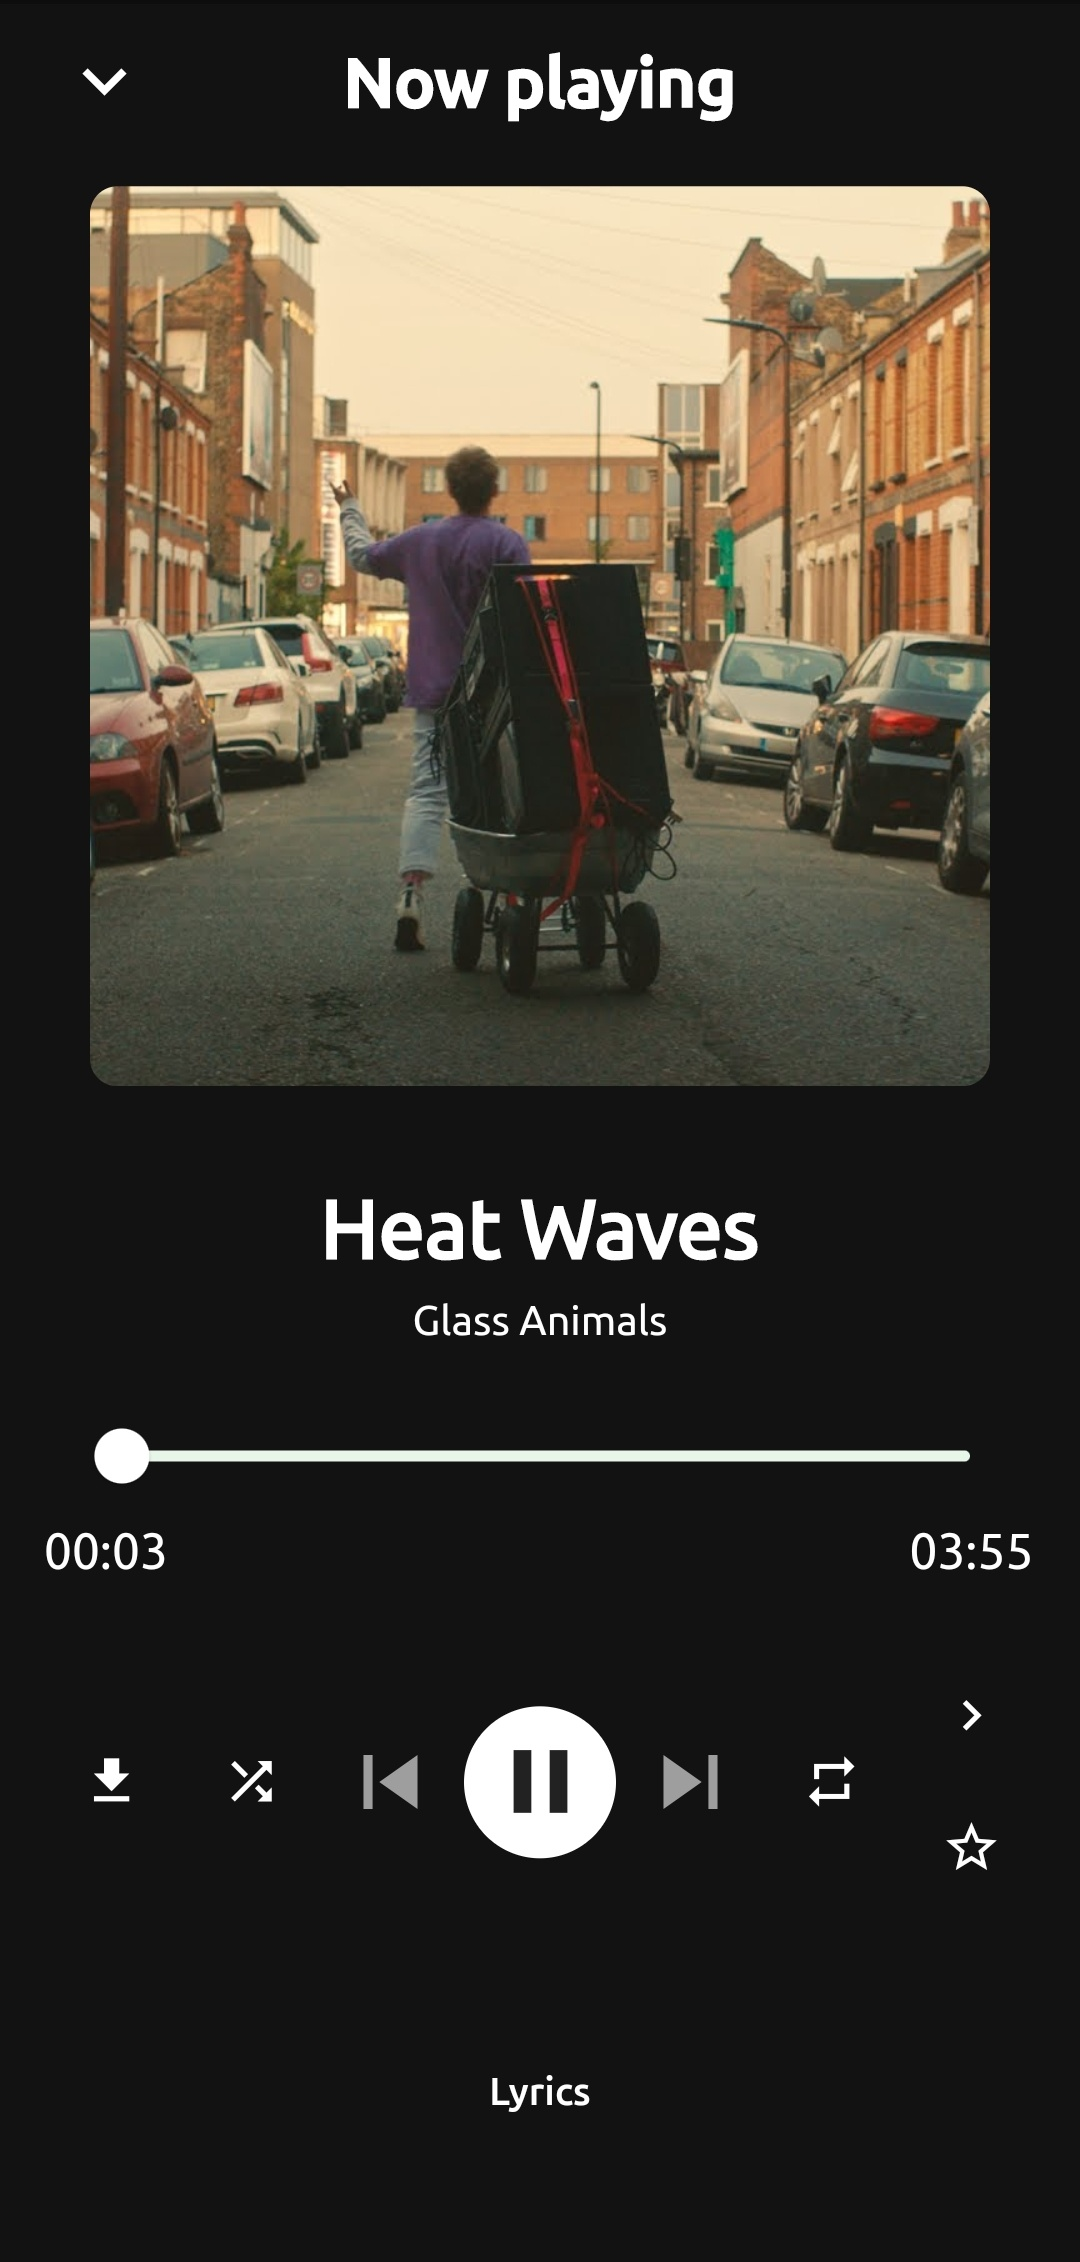
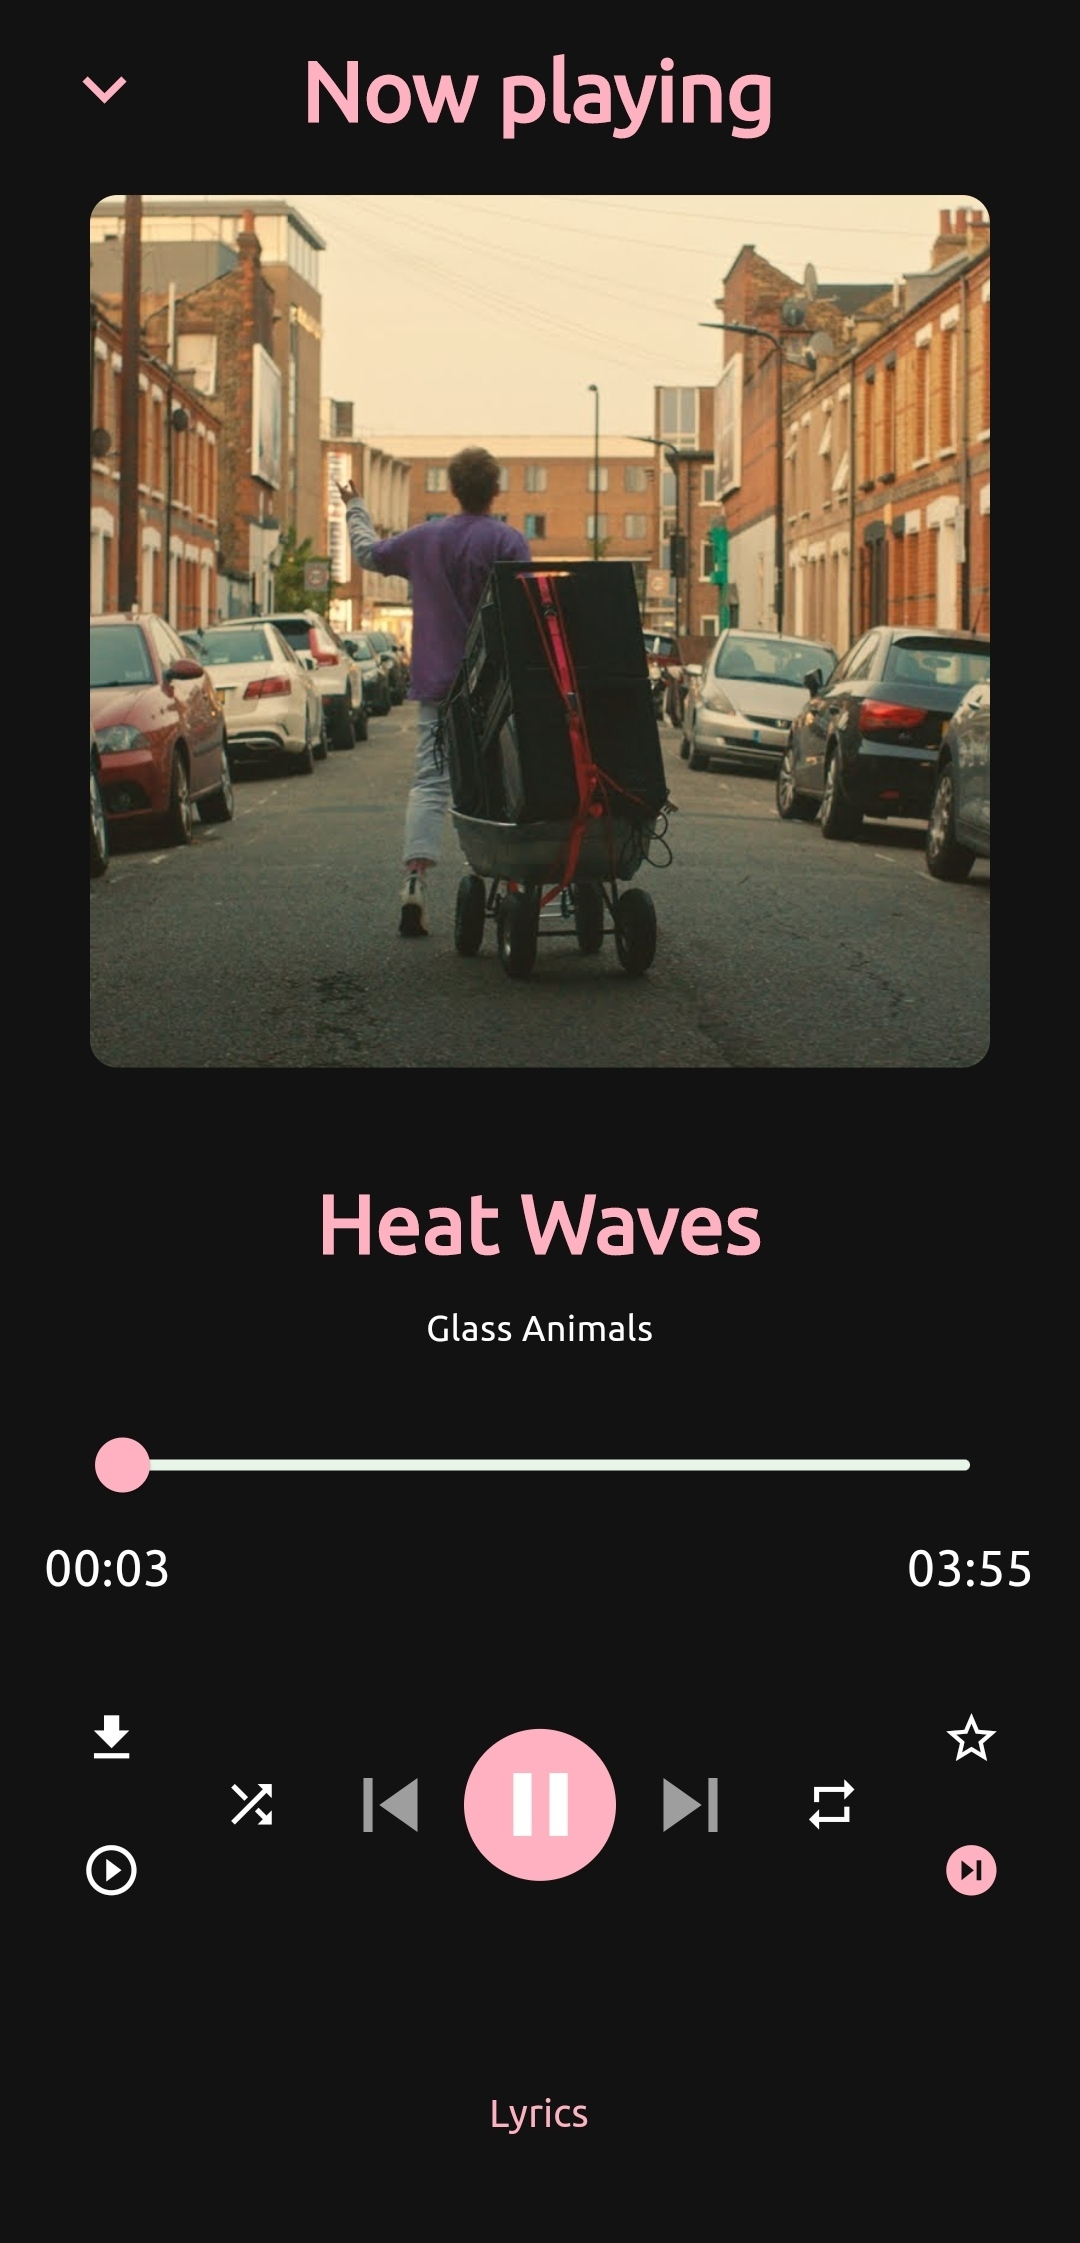
updated fastlane

diff --git a/README.md b/README.md
@@ -24,7 +24,7 @@
     No Ads :no_entry_sign:<br>
     No Subscriptions :dollar:<br> 
     12 Supported Languages :us:<br>
-    Material UI & Accent Colors :art: <br>
+    Material UI & Accent Colors & Dynamic Colors (Android 12+) :art: <br>
  
 
 ---
